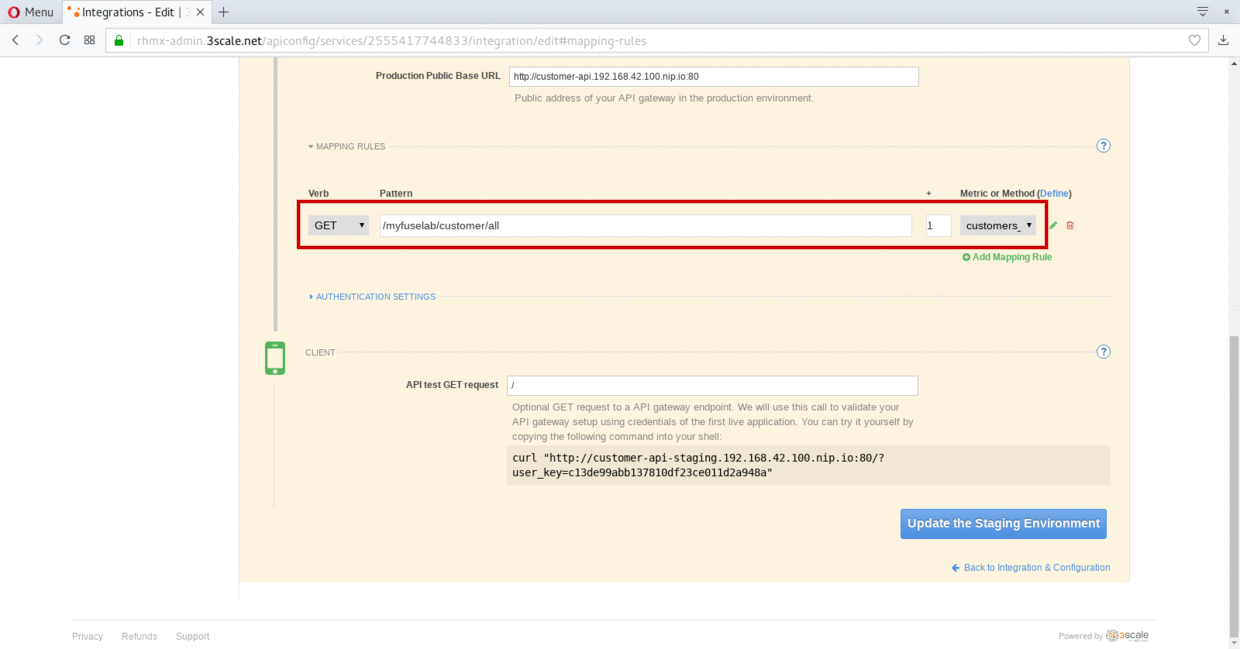
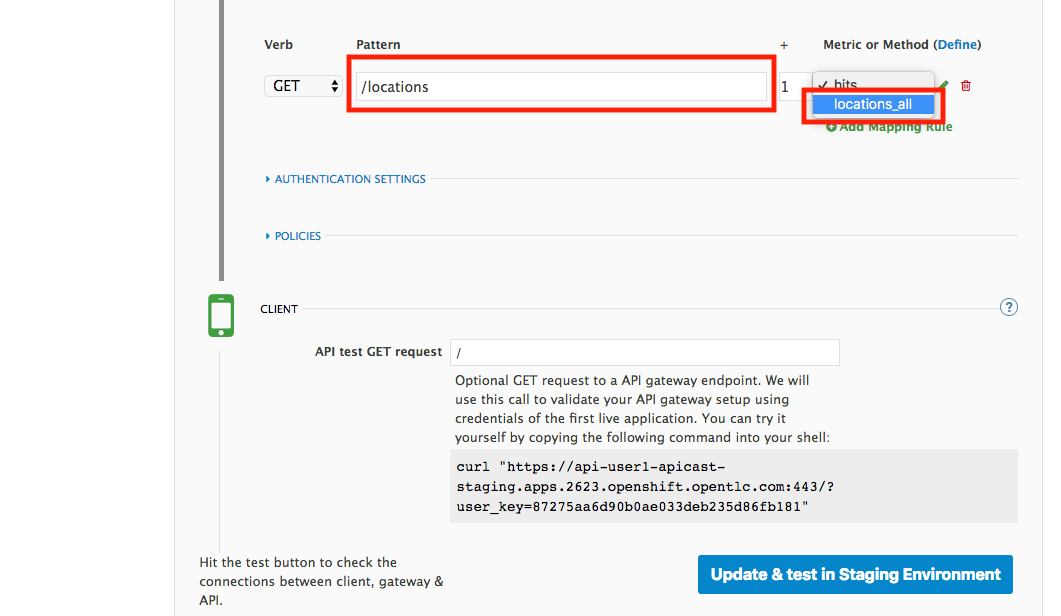
updated lab 3

diff --git a/docs/labs/lab03/lab03.md b/docs/labs/lab03/lab03.md
@@ -55,7 +55,7 @@ r3dh4t1!
 
 ## Lab Instructions
 
-### Step 1: Define your API
+### Step 1: Define your API Proxy
 
 Your 3scale Admin Portal provides access to a number of configuration features.
 
@@ -65,7 +65,7 @@ Your 3scale Admin Portal provides access to a number of configuration features.
     https://userX-admin.apps.GUID.openshift.opentlc.com/
     ```
     
-    *Remember to replace the GUID with your [environment](#environment) values and your user number.*
+    *Remember to replace the GUID with your [environment](#environment) value and your user number.*
 
 1. Accept the self-signed certificate.
 
@@ -75,91 +75,114 @@ Your 3scale Admin Portal provides access to a number of configuration features.
 
     ![01-login.png](images/01-login.png)
 
-1. If it's the first time you access the 3scale portal, dismiss and close the wizard by clicking on the top right **X**.
+1. The first page you will land is the *API Management Dashboard*. Click on the **API** menu link.
 
-    ![01a-wizard.png](images/01a-wizard.png)
+    ![01a-dashboard.png](images/01a-dashboard.png)
 
-1. The first page you will land is the API tab. From here we will create our API definition. Click on the `Integration` link.
+1. This is the *API Overview* page. Here you can take an overview of all your services. Click on the **Integration** link.
 
     ![02-api-integration.png](images/02-api-integration.png)
 
-4. Click on the `edit integration settings` to edit the API settings for the gateway.
+1. Click on the **edit integration settings** to edit the API settings for the gateway.
 
     ![03-edit-settings.png](images/03-edit-settings.png)
 
-5. Select the **APIcast self-managed** Gateway deployment option.
+1. Keep select the **APIcast** deployment option in the *Gateway* section.
 
     ![04-apicast.png](images/04-apicast.png)
 
-6. Keep the **API Key (user_key)** Authentication.
+1. Scroll down and keep the **API Key (user_key)** Authentication.
 
     ![05-authentication.png](images/05-authentication.png)
 
-7. Click on **Update Service**
+1. Click on **Update Service**.
 
-8. Click on the **add the Base URL of your API and save the configuration** button
+1. Click on the **add the Base URL of your API and save the configuration** button
 
-9. Expand the **mapping rules** section to define the allowed methods on our exposed API.
+    ![04-base-url](images/04-base-url.png)
 
-    > **Note:** the default mapping is the root ("/") of our API resources, something that we might want to avoid.
+1. Scroll down and expand the **mapping rules** section to define the allowed methods on our exposed API.
+
+    *The default mapping is the root ("/") of our API resources, something that we might want to avoid*.
 
     ![07b-mapping-rules.png](images/07b-mapping-rules.png)
 
-10. Click on the **Metric or Method (Define)**  link.
+1. Click on the **Metric or Method (Define)**  link.
 
     ![07b-mapping-rules-define.png](images/07b-mapping-rules-define.png)
 
-11. Click on the **New Method** link in the *Methods* section.
+1. Click on the **New Method** link in the *Methods* section.
 
     ![07b-new-method.png](images/07b-new-method.png)
 
-12. Fill in the information for your Fuse Method.
+1. Fill in the information for your Fuse Method.
 
-    **Friendly name:** `Get Customers`
+    * Friendly name: **Get Locations**
 
-    **System name:** `customers_all`
+    * System name: **locations_all**
 
-    **Description:** `Method to return all customers`
+    * Description: **Method to return all locations**
 
     ![07b-new-method-data.png](images/07b-new-method-data.png)
 
-13. Click on **Create Method**
+1. Click on **Create Method**.
 
-14. **Optional:** Add the `Get Customer` method if you followed the instructions in the previous part of this lab to search by `{id}`. Name it `customer_get`.
-
-15. Click on the **Add mapping rule** link
+1. Click on the **Add mapping rule** link
 
     ![07b-add-mapping-rule.png](images/07b-add-mapping-rule.png)
 
-16. Click on the edit icon next to the GET mapping rule.
+1. Click on the edit icon next to the GET mapping rule.
 
     ![07b-edit-mapping-rule.png](images/07b-edit-mapping-rule.png)
 
-17. Enter `/myfuselab/customer/all` as the Pattern.
+1. Type in the *Pattern* text box the following: 
 
-18. Select `customers_all` as Method.
+    ```bash
+    /locations
+    ```
+
+1. Select **locations_all** as Method from the combo box.
 
     ![07b-getall-rule.png](images/07b-getall-rule.png)
 
-19. *Optional::* Click on the **Add Mapping Rule** button to add the `customer_get` method mapping.
 
-20. Fill in the information for accessing your API:
+1. Scroll back to the top of the page. Fill in the information for accessing your API:
 
-    **Private Base URL:** `http://camel-ose-springboot-xml:80`
+    * Private Base URL: **http://camel-ose-springboot-xml:80**
 
-    **Staging Public Base URL:** `http://customer-api-staging.<OPENSHIFT-SERVER-IP>.nip.io:80`
+    * Staging Public Base URL: **https://location-api-staging.amp.apps.GUID.openshift.opentlc.com:443**
 
-    **Production Public Base URL:** `http://customer-api-production.<OPENSHIFT-SERVER-IP>.nip.io:80`
+    * Production Public Base URL: **https://location-api.amp.apps.GUID.openshift.opentlc.com:443**
+
+    *Remember to replace the GUID with your [environment](#environment) value*.
+
+    *We are using the internal API service, as we are deploying our services inside the same OpenShift cluster*.
 
     ![07-baseurl-configuration.png](images/07-baseurl-configuration.png)
 
-    > **Note:** We are using the internal API service, as we are deploying our services inside the same OpenShift cluster.
+1. Scroll down to the **API Test GET request**.
 
-21. Scroll down to the **API Test GET request**.
+1. Type in the textbox:
 
-22. Enter `/myfuselab/customer/all`.
+    ```bash
+    /locations
+    ```
 
-> *Congratulations!* You have ...
+1. Click on the **Update the Staging Environment** to save the changes and check the connection between client, gateway and API.
+
+    ![08-update-staging.png](images/08-update-staging.png)
+    
+    *If everything works, you will get a green message on the left*.
+
+1.  Click on **Back to Integration &amp; Configuration** link to return to your API overview.
+
+    ![08aa-back-to-integration.png](images/08aa-back-to-integration.png)
+
+1. Click on the **Promote v.1 to Production** button to promote your configuration from staging to production.
+
+    ![08a-promote-production.png](images/08a-promote-production.png)
+
+*Congratulations!* You have configured 3scale access control layer as a proxy to only allow authenticated calls to your backend API.
 
 ## Steps Beyond
 
